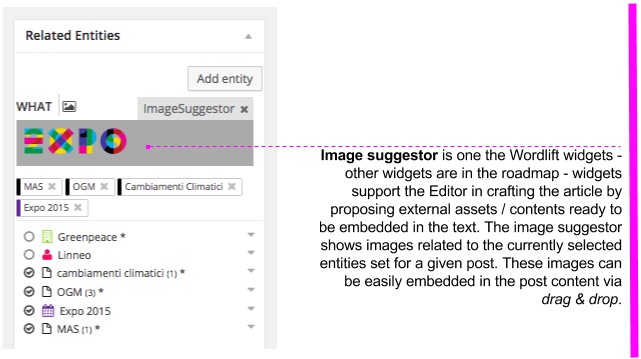
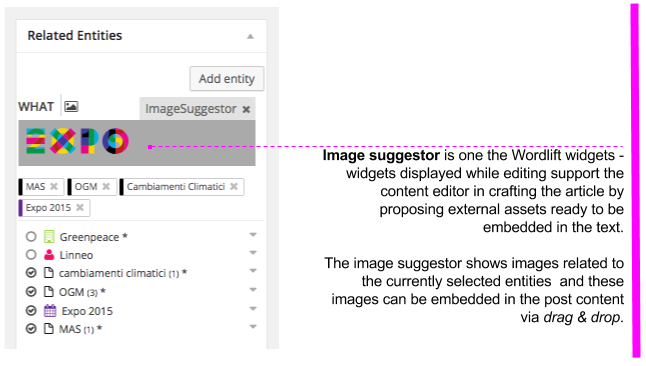
updating on Analysis and images

diff --git a/docs/analysis.rst b/docs/analysis.rst
@@ -16,13 +16,13 @@ _____________
 
 To start working with WordLift (once the plugin has been properly `installed <getting-started.html#installation>`_ and `configured <getting-started.html#configuration>`_) we can simply start writing a blog post using the `standard visual editor of WordPress <https://en.support.wordpress.com/visual-editor>`_.
 
-WordLift adds to the visual editor a menu to embed `widgets <key-concepts.html#widget>`_ in page. 
+WordLift adds to the visual editor the `WordLift Widgets Menu`_ to embed `widgets <key-concepts.html#widget>`_ in page. 
 
 .. image:: /images/wordlift-menu.png
 
 .. warning::
 
-    WordLift works only with the **WordPress visual editor**. 
+    WordLift works only with the standard **WordPress visual editor**. 
     WordLift cannot be used with *Visual Composer* (WorPress page builder) or any other customised page editor.
 
 WordLift Widgets Menu
@@ -31,21 +31,21 @@ _____________
 The menu lets you add four different `widgets <key-concepts.html#widget>`_ to your blog post. `widgets <key-concepts.html#widget>`_ provide a rich visual presentation of the entities populating the post and help readers find more relevant contents.  
 
 .. note::
-	As the blog grows and entities are created and mentioned, the widgets update their content without intervention from the editor.
+	As the site grows with new articles, new entities are created and contents are annotated, the graphical widgets automatically reflect the changes **without requiring any intervention from the editor**. This brings fresh new updates on your contents. 
 
 The four `widgets <key-concepts.html#widget>`_ are:
 
 * **Chord** 
-		|	Visualizes the relationships between all entities starting from the entities mentioned in the post.
+		|	Visualizes the relationships between all entities starting from entities mentioned in the post.
 
 * **Timeline** 
-		|	Displays a navigable list of ordered *Event* entities mentioned in the post.  
+		|	Displays a navigable list of ordered entities of type *Event* mentioned in the post.  
 
 * **GeoMap** 
-		|	Displays *Place* entities on a map.  
+		|	Displays all entities of type *Place* mentioned in the post on a map.  
 
 * **Navigator** 
-		|	Provides content recommendations by presenting relevant **internal** website links (links to other blognposts on the same website).  
+		|	Provides content recommendations by presenting relevant **internal** website links (links to other blog posts on the same website).  
 
 Each widget has a corresponding shortcode; review the `widget shortcodes page <shortcodes.html#widget-shortcodes>`_ for more information on how this works.
 
@@ -59,11 +59,11 @@ Once I hit the **Save Draft** button *for the first time*, `entities <key-concep
 
 .. image:: /images/wordlift-content-analysis-results.png
 
-By clicking on each entity I can `reconcile <key-concepts.html#reconciliation>`_ it with the same entity in DBpedia or Freebase using the **WordLift Edit Post widget**. The entities that I choose will annotate this blog post.
+By clicking on each entity I can `reconcile <key-concepts.html#reconciliation>`_ it with the same entity in DBpedia or Freebase using the `WordLift Edit Post widget`_. The entities that I choose will annotate this blog post.
 
 .. note::
 
-	Text annotation in WordLift is *semi-automatic*. `Entities <key-concepts.html#entity>`_ being extracted automatically are validated by the editor before being stored.
+	Text annotation in WordLift is *semi-automatic*. `Entities <key-concepts.html#entity>`_ being extracted automatically are validated by the editor before being recorded.
 
 With WordLift I can identify the basic '*who*, *what*, *when* and *where*' of an
 article. I can also further structure the contextual information by creating new entities in the `custom vocabulary <key-concepts.html#vocabulary>`_. Annotations are added to posts and pages using the **WordLift Edit Post Widget**.
@@ -80,7 +80,7 @@ Articles can be annotated in two ways:
 
 Top down annotation
 ^^^^^^^^^^^^^^
-The content editor, from the list of entities being detected in the text, uses these entities to describe his/her post without selecting any specific text annotations. 
+The content editor, from the list of entities being detected in the text, uses these entities to describe his/her post without selecting any specific occurrence in the text. 
 Entities being selected, in this case, describe the entire post (and not the single occurrence of the entity in the text).
 
 .. image:: /images/wordlift-edit-post-widget-01.png 
@@ -102,7 +102,7 @@ The complete list of properties can be edited from the :doc:`edit-entity` page.
 Image Suggestor
 ^^^^^^^^^^^^^^
 .. image:: /images/wordlift-edit-post-widget-04.png 
-Images for each entity appear in the WordLift Edit Post Widget and can be dragged and dropped in the visual editor. 
+Images for each entity appear in the WordLift Edit Post Widget and can be embedded in the visual editor. 
 
 Reconciling entities
 _____________
@@ -136,7 +136,7 @@ All parameters but **Entity Id** can be edited directly from the `WordLift Edit 
 
 Once I hit **Save** on the `WordLift Edit Post Widget`_ I annotate this post (this means adding a `semantic fingerprint <key-concepts.html#semantic-fingerprint>`_ to this piece of content).
 
-In this test post another important concept worth mentioning is the creator of the World Wide Web Sir Tim Berners-Lee.
+In this post another important concept worth mentioning is the creator of the World Wide Web Sir Tim Berners-Lee.
 The entity is properly identified as `Person` and all `Person` and `Organization` types are available under the *who* category.   
 
 .. image:: /images/wordlift-content-analysis-disambiguation-berners-lee.png
@@ -145,9 +145,9 @@ The entity is properly identified as `Person` and all `Person` and `Organization
 
 	Annotations are saved when a blog post or a page is published. Annotations and data related to each entity being annotated remain in *draft* untill the post is published. 
 
-.. note::
+.. warning::
 
-    To replace entities being used in the annotation of the blog post after publishing we need to restart the analysis by clicking on the cog icon.
+    When the text from the Visual Editor is edited or removed all annotations being saved are lost. WordLift stores the editor's selection of entities in the content of the Visual Editor. 
 
 Creating a new entity
 _____________
@@ -158,7 +158,7 @@ In some cases key concepts that are important for (1), (2) and (3) are not autom
 
 .. note::
 
-	A basic guideline for adding entity is: people should apply entities that a librarian would plausibly use to classify the content you're writing as if it was a book. For some basic guidelines on when creating new entities `read here <faq.html#what-are-the-guidelines-for-creating-new-entities-to-annotate-a-blog-post-or-a-page>`_
+	A basic guideline for adding entity is: people should apply entities that a librarian would plausibly use to classify the content you're writing as if it was a book. For some basic guidelines on when creating new entities `read here <faq.html#what-are-the-guidelines-for-creating-new-entities-to-annotate-a-blog-post-or-a-page>`_.
 
 New entities being added will become part of the `WordLift vocabulary  <key-concepts.html#vocabulary>`_. 
 
@@ -166,9 +166,9 @@ Once an entity as been added to the vocabulary it will be automatically detected
 
 In our example one significant entity has not been detected and it is worth *teaching* it to WordLift. 
 
-.. image:: /images/wordlift-content-analysis-new-entity-highlight.png  
+.. image:: /images/wordlift-content-analysis-new-entity-highlight.gif  
 
-The entity is infact *[WordLift]* itself. To create a new entity I will highlight the text ``WordLift`` and click on the pencil icon "Insert entity".
+The entity is infact *[WordLift]* itself. To create a new entity I will highlight the text ``WordLift``, the button **Add Entity** will appear in the `WordLift Edit Post Widget`_ and by clicking it I will be able to edit the properties of the new entity. 
 
 .. image:: /images/wordlift-content-analysis-new-entity-creation.png
 
